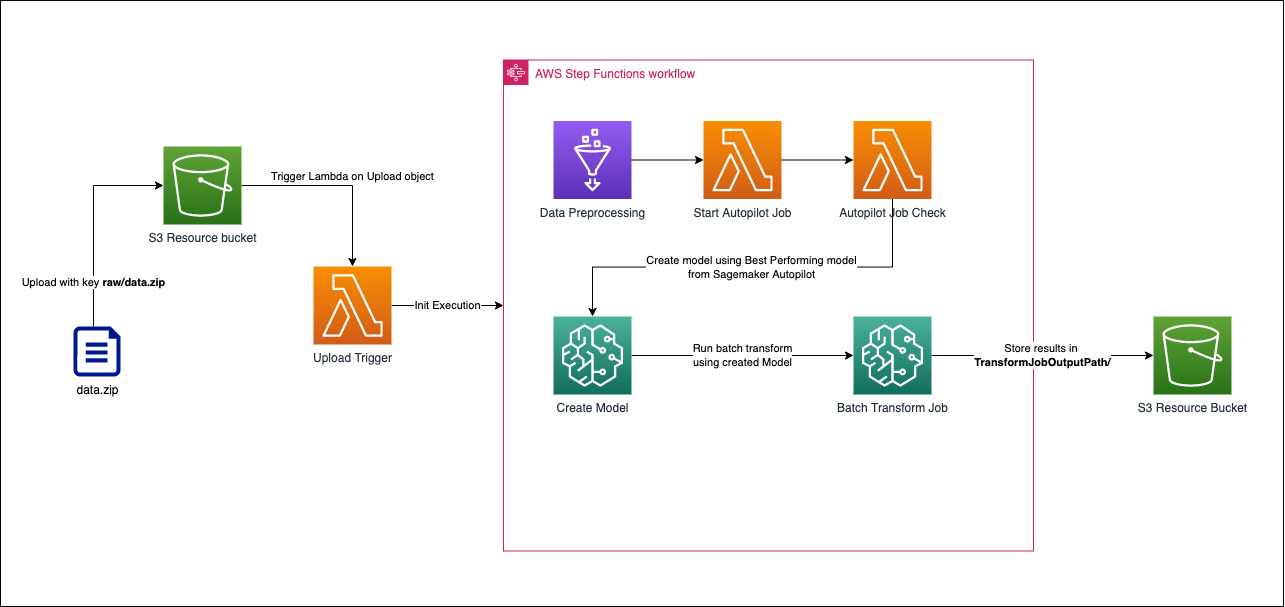
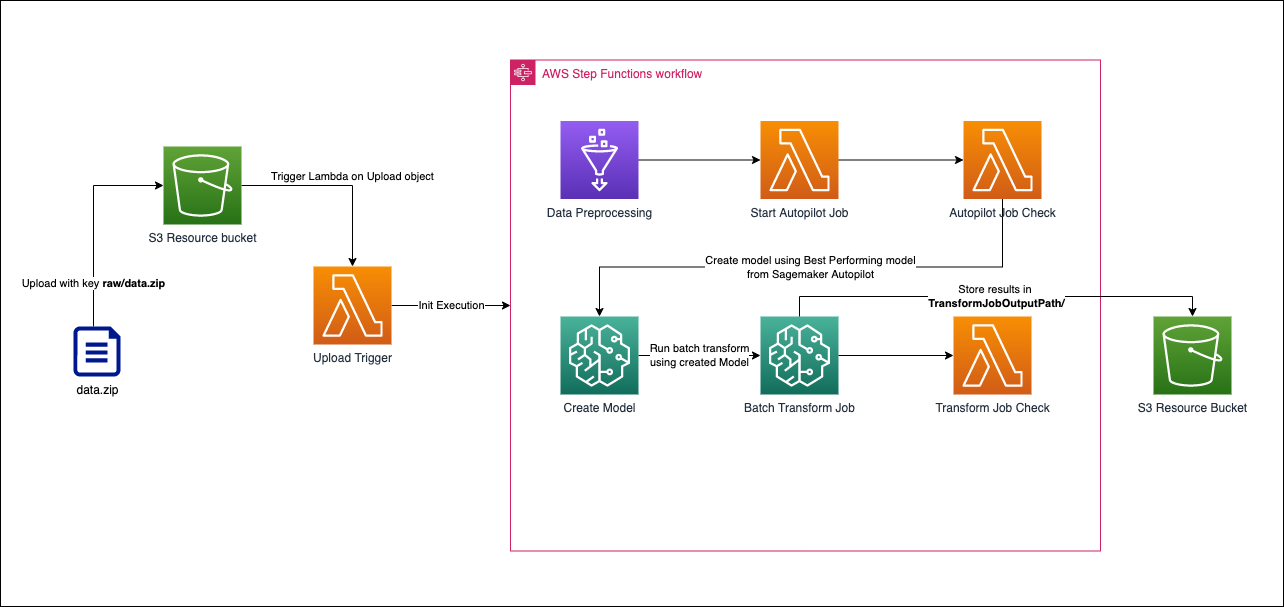
Updated README file with newest changes

diff --git a/README.md b/README.md
@@ -51,6 +51,9 @@ Implemented as direct call of SageMaker APIs from Step Functions task to create 
 ### Batch Transform Job
 Implemented as direct call of SageMaker APIs from Step Functions task to create a Batch Transform Job using the model defined in "Create Model" step. The results are going to be stored in the same Resource Bucket created by CDK, but in the folder __TransformJobOutputPath/__.
 
+### Batch Transform Job Check
+Implemented as a Lambda with Step Functions loop process. Step Function does a loop and each 5 minutes runs Lambda Function which checks the status of created Batch Transform Job from previous step. Lambda is used as there is no direct integration from Step Functions tasks with SageMaker API [DescribeTransformJob](https://docs.aws.amazon.com/sagemaker/latest/APIReference/API_DescribeTransformJob.html).
+
 ## How to Run
 
 This section explains how to trigger the pipeline to run Amazon Autopilot pipeline from end to end. Follow the instructions in order.
